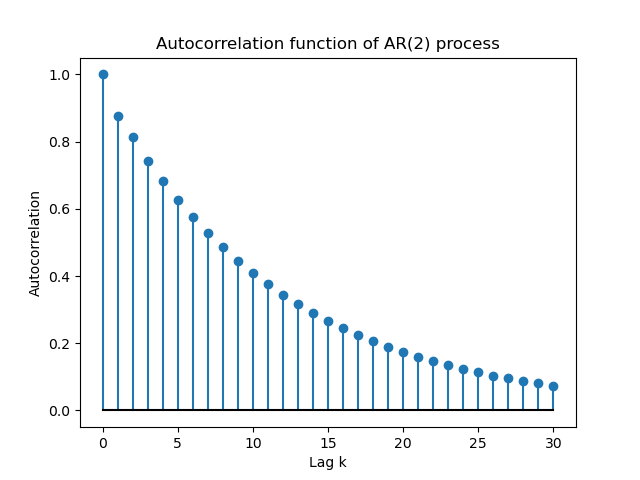
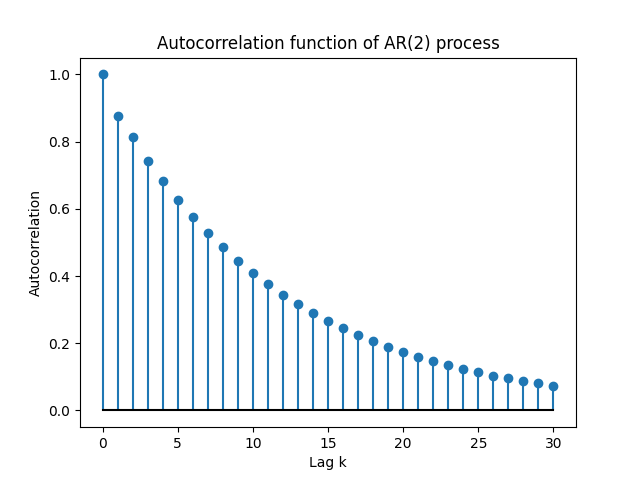
stuff

Changed region(s): [[0.25, 0.0625, 0.7812, 0.125], [0.7188, 0.9062, 0.75, 0.9375], [0.0938, 0.8438, 0.125, 0.875]]

diff --git a/main.py b/main.py
@@ -1,0 +1,6 @@
+def main():
+    print("Hello from timeseriesanalysis-assignments!")
+
+
+if __name__ == "__main__":
+    main()

diff --git a/Assignment2/1_4_plot.py b/Assignment2/1_4_plot.py
@@ -16,7 +16,7 @@ for k in range(2, nlag + 1):
 
 # Plot
 plt.stem(range(nlag + 1), rho, basefmt="k")
-plt.xlabel("Lag k")
+plt.xlabel("Lag k") 
 plt.ylabel("Autocorrelation")
 plt.title("Autocorrelation function of AR(2) process")
 #plt.axhline(0, color="black", linewidth=0.8)